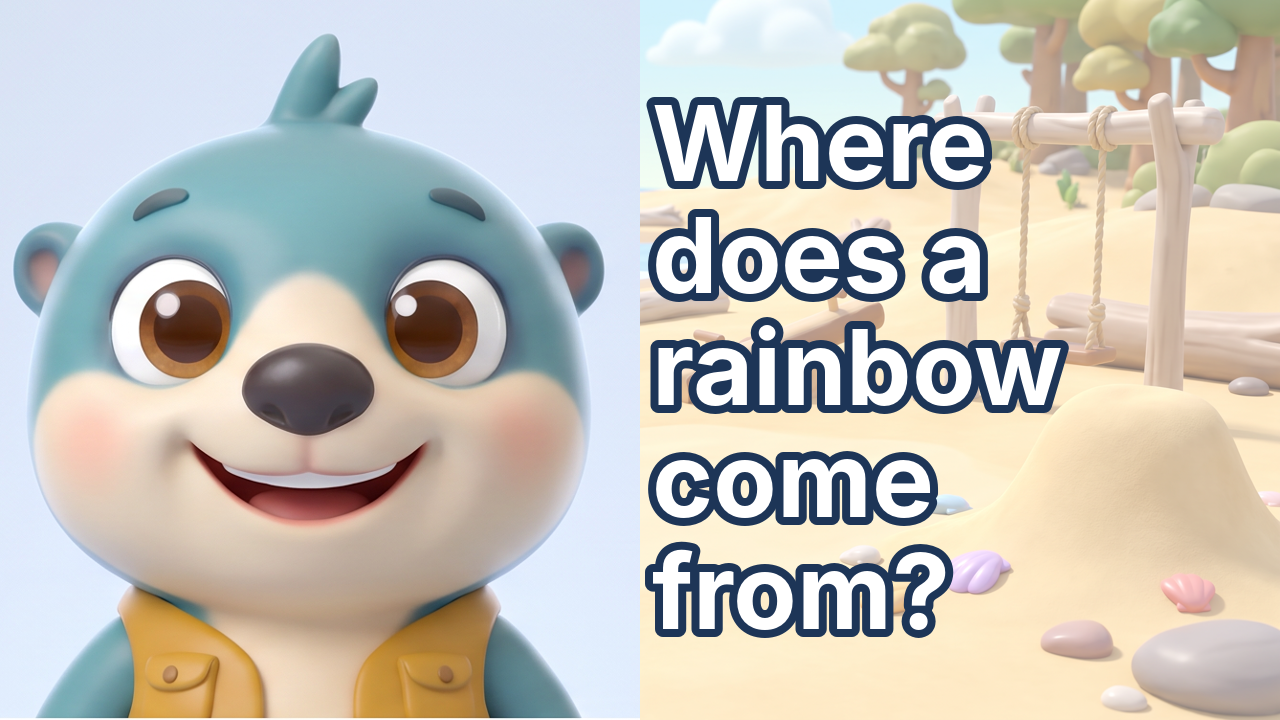
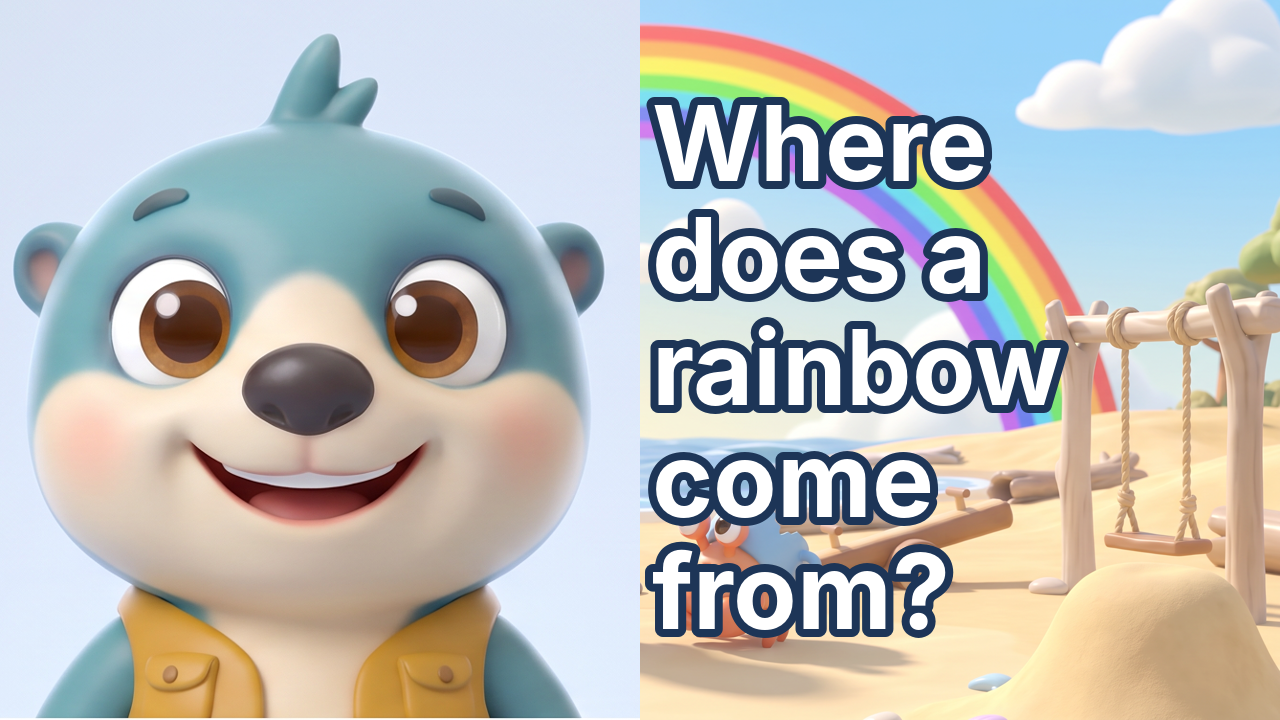
E02 complete (QA 8/8), story-frame thumbnails for E02/E03, status and credits
Claude-Session: https://claude.ai/code/session_018opNwaDsoAjmGHWn5ETCat

diff --git a/pipeline/package.py b/pipeline/package.py
@@ -36,7 +36,15 @@ def thumbnail(ep, meta, out):
     loc = next((s["location"] for s in (load_sb(ep)["shots"]) if s["beat"] == 3), "driftwood_playground")
     plate = ROOT / "bible" / "locations" / f"{loc}.png"
     bg = Image.open(plate).convert("RGB").resize((W, H)) if plate.exists() else Image.new("RGB", (W, H), (190, 220, 245))
-    bg = Image.blend(bg, Image.new("RGB", (W, H), (255, 255, 255)), 0.35)
+    blend = 0.35
+    hs = d / "hero_shots.json"
+    if hs.exists() and ep != "E01":  # E02 onward: the episode's first hero frame (e.g. the rainbow) is a stronger backdrop than the plain plate
+        import json as _j
+        still = d / "shots" / f"{ep}-{_j.loads(hs.read_text())[0]}.png"
+        if still.exists():
+            bg = Image.open(still).convert("RGB").resize((W, H))
+            blend = 0.12
+    bg = Image.blend(bg, Image.new("RGB", (W, H), (255, 255, 255)), blend)
     sheet = ROOT / "characters" / "ollie" / "expressions" / "expr_v2.png"
     if sheet.exists():
         s = Image.open(sheet).convert("RGB")

diff --git a/STATUS.md b/STATUS.md
@@ -15,6 +15,7 @@ Per-episode estimate going forward: ~62 stills (124, with the inset-bug fix no r
 
 ## Not done / blocked (needs a person or a decision)
 1. E01 CUT WITH MUSIC DONE (episodes/E01/final/E01_episode.mp4, 7:46, 1080p, QA 8/8 PASS; Shorts demo 52 s + fail 25.7 s). Stills, locked voices, 20 Kling hero clips (~25% of runtime), Ken Burns elsewhere, theme song + outro + 5 mood beds (vidIQ music generator, 25 vidIQ credits each = 175 of 821; originals in assets/music/, continuous mix built in assemble.build_music). Theme is 44 s clip faded at 30 s (title sting is cut); outro 58 s faded at 20 s. STILL TO DO: human listen to voices; upload via YouTube Studio (vidIQ cannot publish; connected as @otterlycurious123, channel UCCLZx9rLKy-UJBqsrL5LRaA), then set metadata/thumbnail through vidIQ.
+2. E02 (7:18, 'Why do otters hold hands?') and E03 (7:37, 'Where does a rainbow come from?') DONE: QA 8/8 pass, Shorts (E02 demo 57.9 s / fail 21.7 s; E03 demo 53.9 s / fail 27.3 s), story-frame thumbnails, music mixed. 62 stills each (theme, outro and Wonder Pocket recap stills + 6 theme/outro clips reused from E01), locked voices, 8 new Kling Pro hero clips each (+6 reused theme/outro clips). Drift flags eyeballed and logged in episodes/E0x/drift_reviewed.json. Credits: balance 436.1 after E01 -> 52.2 after E02+E03 = 383.9 total (voices ~23, stills ~200 incl. ~10 refunded/failed retries and 1 re-roll, 16 clips 140). Per-episode cost with reuse is ~190. NOT uploaded yet: owner uploads to YouTube Studio (made for kids, captions .srt, thumbnail), then metadata is set through vidIQ (episodes/E0x/youtube.md). Credits left: 52 Higgsfield (top up before E04), vidIQ ~600.
 2. The channel is NOT connected to vidIQ here (connected channels belong to other projects). Nothing has been uploaded or edited on @OtterlyCurious123. Owner must authorize via the link in chat, or apply channel/ by hand.
 3. Fonts: Nunito/Fredoka could not be downloaded (network); book/thumbnails use fallback fonts. Drop the TTFs in assets/fonts/.
 4. Book print art: needs 5250x2625 px per spread (300 dpi); current PDF uses placeholders.

diff --git a/episodes/E02/youtube.md b/episodes/E02/youtube.md
@@ -7,8 +7,6 @@
 **End screens/links/QR/merch:** none.
 
 ## Description
-> NOTE: chapter times are estimates from the storyboard; regenerate after the final render.
-
 TRY IT AT HOME: Fill a wide bowl with water. Float two leaves on one side and two leaves on the other. Tie one pair loosely together with a soft string. Gently swirl the water with a finger. Watch the loose leaves drift apart while the tied leaves stay together.
 
 In this episode of Otterly Curious, Ollie the sea otter and his friends ask: Why do otters hold hands? Sea otters hold paws while they rest and sleep so the moving water cannot drift them apart. Along the way, Gus learns about sticking together.
@@ -16,12 +14,12 @@ In this episode of Otterly Curious, Ollie the sea otter and his friends ask: Why
 A science-for-kids story for ages 3-7, made to be watched together.
 
 0:00 Big question
-0:22 Theme song
-0:52 Let's guess
-2:13 Uh-oh!
-3:07 Let's find out
-4:35 Try it out
-5:31 Wonder Pocket
+0:25 Theme song
+0:55 Let's guess
+2:23 Uh-oh!
+3:22 Let's find out
+5:18 Try it out
+6:16 Wonder Pocket
 
 Subscribe to Otterly Curious for a new question every week.
 

diff --git a/episodes/E02/qa_report.md b/episodes/E02/qa_report.md
@@ -1,0 +1,10 @@
+# QA report E02: PASS
+
+- PASS | runtime 6:00-8:00 | 7.31 min
+- PASS | every line audible | 54 lines, problems: []
+- PASS | no shot >8s without motion | missing clips: []; shots >8s (all have motion): ['E02-S002', 'E02-S013', 'E02-S017', 'E02-S019', 'E02-S020', 'E02-S022', 'E02-S029', 'E02-S031', 'E02-S034', 'E02-S034c', 'E02-S035', 'E02-S036', 'E02-S038b', 'E02-S039', 'E02-S039b', 'E02-S042', 'E02-S043', 'E02-S046', 'E02-S061', 'E02-S062']
+- PASS | captions in sync | 54 cues vs 54 lines
+- PASS | no character drift flags open | 0 flags
+- PASS | style/brightness on sampled frames | dark frames: []
+- PASS | Short (demo) 45-60 s | 57.9s
+- PASS | Short (fail) 20-30 s | 21.7s
